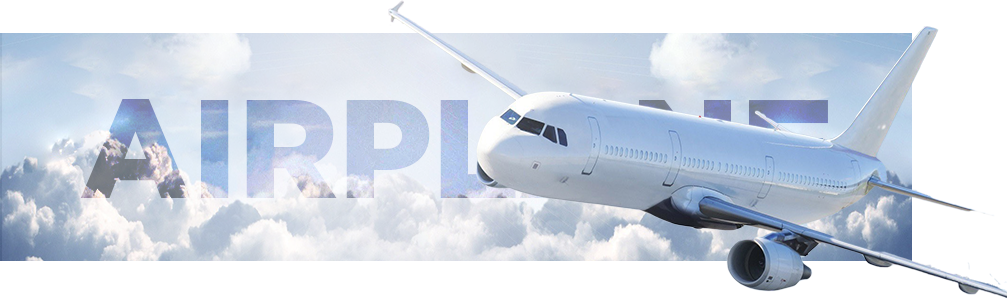
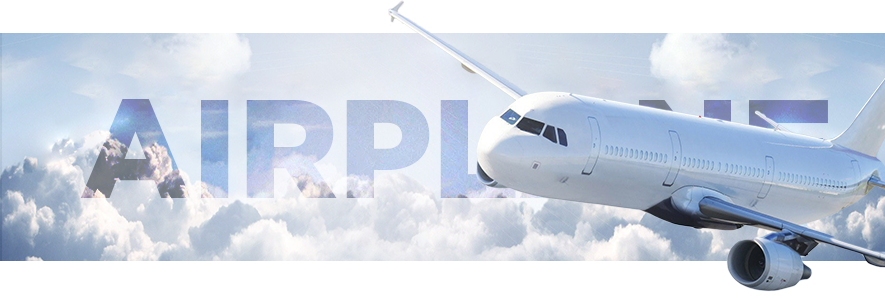
plug color

diff --git a/comment.html b/comment.html
@@ -40,83 +40,83 @@
 	    		
 		    	<!-- Боковая навигация -->
 		        <aside class="sidebar">
-					<div class="plug">
-						<p class="plug__text">
-							Вопросы по пронированию билетов в нашей компании принимаются.
-							Для этого можно оставить <a href="#" class="plug__request">заявку на сайте </a> или же позвонить по номеру круглосуточной поддержки <a class="plug__phone" href="tel: +788000039210"> 8 (800) 00-392-10. </a>
-						</p>
-					</div>
+							<div class="plug">
+								<p class="plug__text">
+									Вопросы по пронированию билетов в нашей компании принимаются.
+									Для этого можно оставить <a href="#" class="plug__request">заявку на сайте </a> или же позвонить по номеру круглосуточной поддержки <a class="plug__phone" href="tel: +788000039210"> 8 (800) 00-392-10. </a>
+								</p>
+							</div>
 
-					<div class="socials">
-		    			<h4 class="socials__title">Наши социальные сети</h4>	   					   				
-		    			<ul class="socials__list">
-		    					<li class="socials__items">
-		    						<a href="#" class="socials__link">
-		    						
-		    						</a>
-		    					</li>
-		    					<li class="socials__items">
-		    						<a href="#" class="socials__link">
-		    						
-		    						</a>
-		    					</li>
-		    					<li class="socials__items">
-		    						<a href="#" class="socials__link">
-		    						
-		    						</a>
-		    					</li>
-		    					<li class="socials__items">
-		    						<a href="#" class="socials__link">
-		    						
-		    						</a>
-		    					</li>
-		    					<li class="socials__items">
-		    						<a href="#" class="socials__link">
-		    						
-		    						</a>
-		    					</li>
-		    			</ul>	
-		    		</div>
-		        </aside>  
+								<div class="socials">
+										<h4 class="socials__title">Наши социальные сети</h4>	   					   				
+										<ul class="socials__list">
+												<li class="socials__items">
+													<a href="#" class="socials__link">
+													
+													</a>
+												</li>
+												<li class="socials__items">
+													<a href="#" class="socials__link">
+													
+													</a>
+												</li>
+												<li class="socials__items">
+													<a href="#" class="socials__link">
+													
+													</a>
+												</li>
+												<li class="socials__items">
+													<a href="#" class="socials__link">
+													
+													</a>
+												</li>
+												<li class="socials__items">
+													<a href="#" class="socials__link">
+													
+													</a>
+												</li>
+										</ul>	
+									</div>
+						</aside>  
 
 
 		        <!-- Информационная часть сайта - секция-->
 		        <main class="paigcontent">
 					
-					<nav class="nav">
-						<ul class="nav__list">
-							<li class="nav__item"> 
-								<a class="nav__link nav__link--main" href="main.html">
-								<div class="nav__icon">
-									<!--<img src="./img/main_icon_blue.png" alt="Картинка меню главная" class="nav__icon-pic">-->
-								</div>
-								<span class="nav__title">
-									Главная
-								</span>
-								</a>
-							</li>
-							<li class="nav__item nav__item--active"> 
-									<a class="nav__link nav__link--comment">
-									<div class="nav__icon">
-									<!--	<img src="./img/feed_icon_b.png" alt="Картинка меню главная" class="nav__icon-pic">-->
-									</div>
-									<span class="nav__title">
-										Отзывы
-									</span>
-									</a>
-							</li>
-							<li class="nav__item"> 
-									<a class="nav__link nav__link--crew" href="crew.html">
-									<div class="nav__icon">
-										<!--<img src="./img/team.png" alt="Картинка меню главная" class="nav__icon-pic">-->
-									</div>
-									<span class="nav__title">
-										Экипаж
-									</span>
-									</a>
-							</li>
-						</ul>
-					</nav>
+									<nav class="nav">
+										<ul class="nav__list">
+											<li class="nav__item"> 
+												<a class="nav__link nav__link--main" href="main.html">
+												<div class="nav__icon">
+													<!--<img src="./img/main_icon_blue.png" alt="Картинка меню главная" class="nav__icon-pic">-->
+												</div>
+												<span class="nav__title">
+													Главная
+												</span>
+												</a>
+											</li>
+											<li class="nav__item nav__item--active"> 
+													<a class="nav__link nav__link--comment">
+													<div class="nav__icon">
+													<!--	<img src="./img/feed_icon_b.png" alt="Картинка меню главная" class="nav__icon-pic">-->
+													</div>
+													<span class="nav__title">
+														Отзывы
+													</span>
+													</a>
+											</li>
+											<li class="nav__item"> 
+													<a class="nav__link nav__link--crew" href="crew.html">
+													<div class="nav__icon">
+														<!--<img src="./img/team.png" alt="Картинка меню главная" class="nav__icon-pic">-->
+													</div>
+													<span class="nav__title">
+														Экипаж
+													</span>
+													</a>
+											</li>
+										</ul>
+									</nav>
 	                
 					<!--Блок отзывы-->
 					

diff --git a/main.html b/main.html
@@ -41,7 +41,7 @@
 	    		
 		    	<!-- Боковая навигация -->
 		        <aside class="sidebar">
-					 <section class="tariff">
+					<section class="tariff">
 	                   <ul class="tariff__list">
 
 							<li class="tariff__items">
@@ -62,36 +62,35 @@
 	                </section>
 
 	                <div class="socials">
-    			<h4 class="socials__title">Наши социальные сети</h4>	   					   				
-    			<ul class="socials__list">
-    					<li class="socials__items">
-    						<a href="#" class="socials__link">
-    						
-    						</a>
-    					</li>
-    					<li class="socials__items">
-    						<a href="#" class="socials__link">
-    						
-    						</a>
-    					</li>
-    					<li class="socials__items">
-    						<a href="#" class="socials__link">
-    						
-    						</a>
-    					</li>
-    					<li class="socials__items">
-    						<a href="#" class="socials__link">
-    						
-    						</a>
-    					</li>
-    					<li class="socials__items">
-    						<a href="#" class="socials__link">
-    						
-    						</a>
-    					</li>
-    			</ul>
-    			
-    		</div>
+						<h4 class="socials__title">Наши социальные сети</h4>	   					   				
+						<ul class="socials__list">
+							<li class="socials__items">
+								<a href="#" class="socials__link">
+								
+								</a>
+							</li>
+							<li class="socials__items">
+								<a href="#" class="socials__link">
+								
+								</a>
+							</li>
+							<li class="socials__items">
+								<a href="#" class="socials__link">
+								
+								</a>
+							</li>
+							<li class="socials__items">
+								<a href="#" class="socials__link">
+								
+								</a>
+							</li>
+							<li class="socials__items">
+								<a href="#" class="socials__link">
+								
+								</a>
+							</li>
+    					</ul>		
+    				</div>
 
 		        </aside>  
 

diff --git a/styles/blocks/news.css b/styles/blocks/news.css
@@ -1,7 +1,7 @@
 .news { 
     display: flex;
     flex-direction: column;
-    margin-left: 73px;
+    margin-left: 25px;
     margin-top: 7px; 
     margin-top: 0; 
 }
@@ -18,7 +18,7 @@
     align-items: center;  
     list-style-type: none;
     margin-top: 40px; 
-    width: 300px;
+    width: 270px;
 }
 
 

diff --git a/styles/blocks/plug.css b/styles/blocks/plug.css
@@ -8,7 +8,7 @@
 
 .plug__text {
 	background-color: #4b73b5;
-	background-image: url('../../img/point.png');
+	background-image: url('../../img/pattern.png');
 	background-repeat: repeat;
 	padding: 15px;
 	text-align: center;

diff --git a/styles/blocks/plane-banner.css b/styles/blocks/plane-banner.css
@@ -5,5 +5,5 @@
 
 .plane-banner__image {
 	margin-top: 5px;
-    margin-left: 75px;
+    margin-left: 25px;
 }
